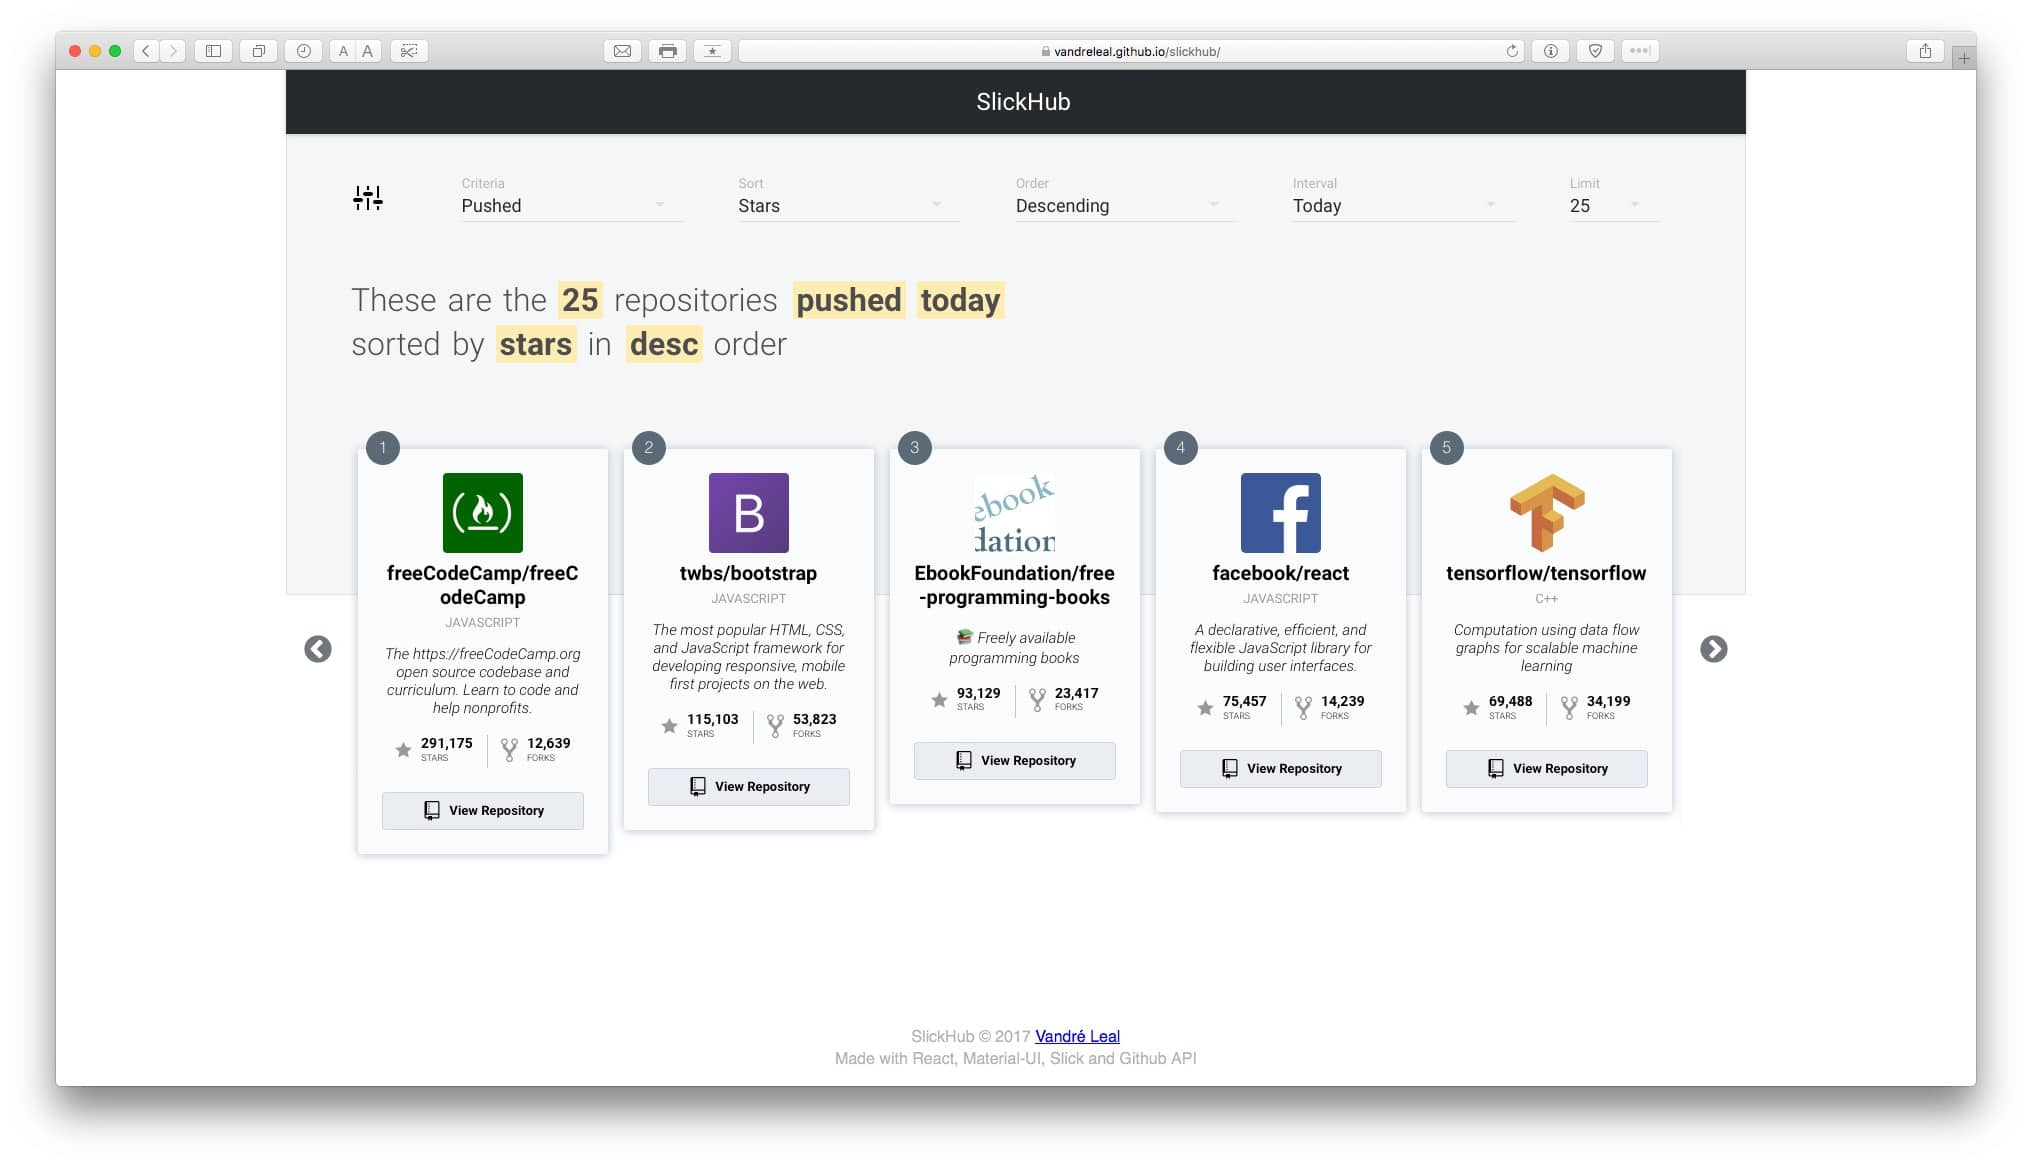
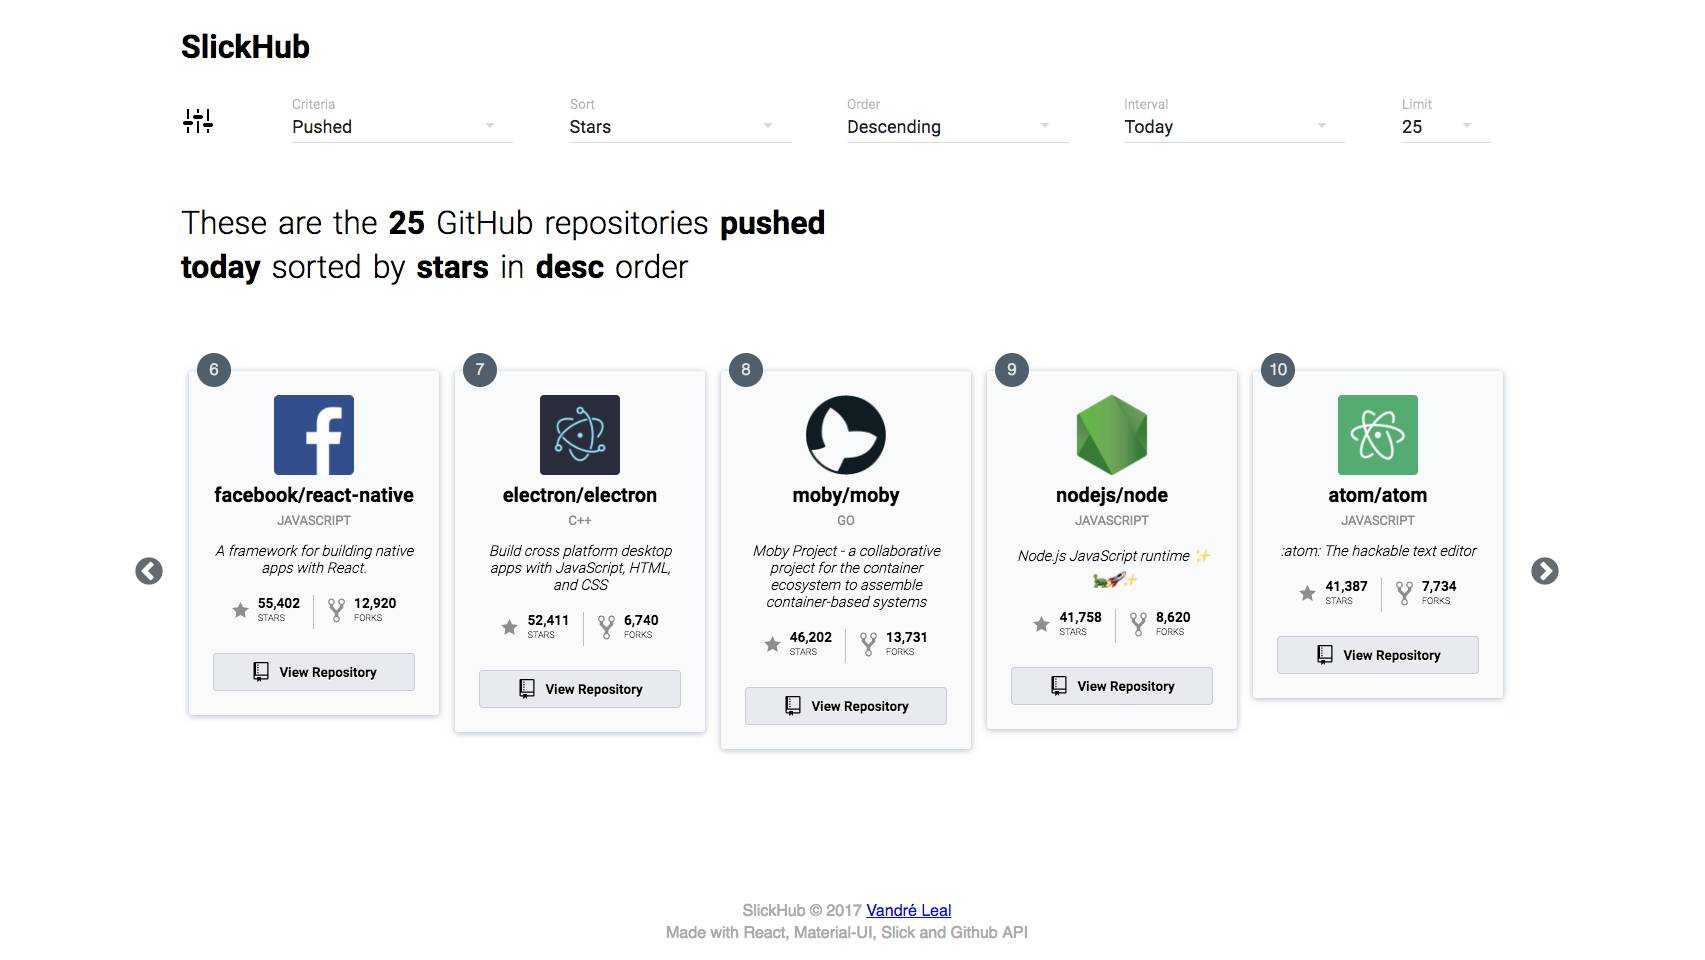
Style Changes

diff --git a/src/App.scss b/src/App.scss
@@ -4,6 +4,13 @@
   min-width: 360px;
 
   &-bar {
+    box-shadow: none !important;
+    border-bottom: 1px solid $color-border;
+
+    h1  {
+      font-weight: 700 !important;
+    }
+
     svg {
       width: 24px;
       height: 24px;
@@ -18,35 +25,30 @@
     display: inline-block;
     box-sizing: border-box;
     width: 100%;
-    padding: $sp-ul 0 $header-offset;
-    background-color: $color-bg;
-    border: 1px solid $color-border;
-    border-top: none;
+    padding: $sp-ul 0 0;
     color: $color-text;
 
     &--description {
-      margin: $sp-md $sp-lg;
+      margin: $sp-lg;
 
       .headline {
-        color: lighten($color-text, 30%);
+        max-width: 700px;
+        color: $color-text;
         font-family: 'Roboto', sans-serif;
-        font-size: 20px;
+        font-size: 28px;
         font-weight: 300;
         line-height: 140%;
         word-spacing: 0.1em;
       }
 
       .highlight {
-        padding: 0 $sp-xs;
         font-weight: 700;
-        background-color: $color-highlight;
       }
     }
   }
 
   &-content {
     z-index: 20;
-    margin: -$header-offset 0 ($sp-ul + $sp-xl);
     background-color: $color-bg-light;
   }
 
@@ -71,9 +73,13 @@
 
     &-bar {
       position: relative !important;
+      padding-right: $sp-ul !important;
+      padding-left: $sp-ul !important;
+      border-bottom: none;
 
       h1 {
-        text-align: center;
+        margin-top: 16px !important;
+        font-size: 32px !important;
       }
 
       &--options {
@@ -85,17 +91,10 @@
       display: flex;
       align-items: flex-end;
       justify-content: center;
-      margin: $sp-lg $sp-xl 0;
+      margin: 0 $sp-xl;
 
       &--icon {
-        display: flex;
-        align-items: flex-end;
-        margin-bottom: 16px;
-
-        svg {
-          width: 32px;
-          height: 32px;
-        }
+        display: none;
       }
 
       &--option {
@@ -114,11 +113,7 @@
       padding-top: 0;
 
       &--description {
-        margin: $sp-xl;
-
-        .headline {
-          font-size: 24px;
-        }
+        margin: ($sp-xl + $sp-md) $sp-xl;
       }
     }
 
@@ -128,16 +123,28 @@
   }
 }
 @media screen and (min-width: $mq-md) {
-  .app {}
+  .app {
+  }
 }
 @media screen and (min-width: $mq-lg) {
   .app {
     &-header {
       &--description {
-        margin: ($sp-xl + $sp-md) $sp-xl;
-
         .headline {
           font-size: 32px;
+        }
+      }
+    }
+
+    &-filter {
+      &--icon {
+        display: flex;
+        align-items: flex-end;
+        margin-bottom: 16px;
+
+        svg {
+          width: 32px;
+          height: 32px;
         }
       }
     }

diff --git a/src/App.js b/src/App.js
@@ -56,8 +56,7 @@ const order = [
 const interval = [
   { value: 'today', label: 'Today' },
   { value: 'this_week', label: 'This Week' },
-  { value: 'this_month', label: 'This Month' },
-  { value: 'this_semester', label: 'This Semester' }
+  { value: 'this_month', label: 'This Month' }
 ];
 
 const limit = [
@@ -71,7 +70,10 @@ const limit = [
 const styles = {
   appbar: {
     position: 'fixed',
-    background: '#24292e'
+    background: '#fff',
+    title: {
+      color: '#000'
+    }
   }
 };
 
@@ -124,12 +126,14 @@ class App extends Component {
           <AppBar
             className="app-bar"
             showMenuIconButton={false}
-            title={this.config.app.name}
             style={styles.appbar}
+            title={this.config.app.name}
+            titleStyle={styles.appbar.title}
             iconElementRight={
               <IconMenu
                 className="app-bar--options"
                 iconButtonElement={<IconButton><SettingsIcon /></IconButton>}
+                iconStyle={{ fill: 'rgba(0, 0, 0, 0.87)' }}
                 anchorOrigin={{horizontal: 'left', vertical: 'top'}}
                 targetOrigin={{horizontal: 'left', vertical: 'top'}}
               >
@@ -269,9 +273,9 @@ class App extends Component {
               </div>
             </div>
 
-            <h1 className="pure-g app-header--description">
-              <div className="pure-u pure-u-lg-3-4 pure-u-xl-1-2 headline">
-                These are the <span className="highlight">{ this.state.limit }</span> repositories <span className="highlight">{ this.state.criteria }</span> <span className="highlight">{ this.state.interval.replace('_', ' ') }</span> sorted by <span className="highlight">{ this.state.sort }</span> in <span className="highlight">{ this.state.order }</span> order
+            <h1 className="app-header--description">
+              <div className="headline">
+                These are the <span className="highlight">{ this.state.limit }</span> GitHub repositories <span className="highlight">{ this.state.criteria }</span> <span className="highlight">{ this.state.interval.replace('_', ' ') }</span> sorted by <span className="highlight">{ this.state.sort }</span> in <span className="highlight">{ this.state.order }</span> order
               </div>
             </h1>
           </div>

diff --git a/src/shared/_variables.scss b/src/shared/_variables.scss
@@ -17,7 +17,7 @@ $color-bg: #f4f6f8;
 $color-bg-light: #fff;
 $color-border: #ddd;
 $color-text: #000;
-$color-highlight: #ffecB3;
+$color-highlight: #fafbfc;
 $color-github: #24292e;
 $color-error: #EF5350;
 // Elements
